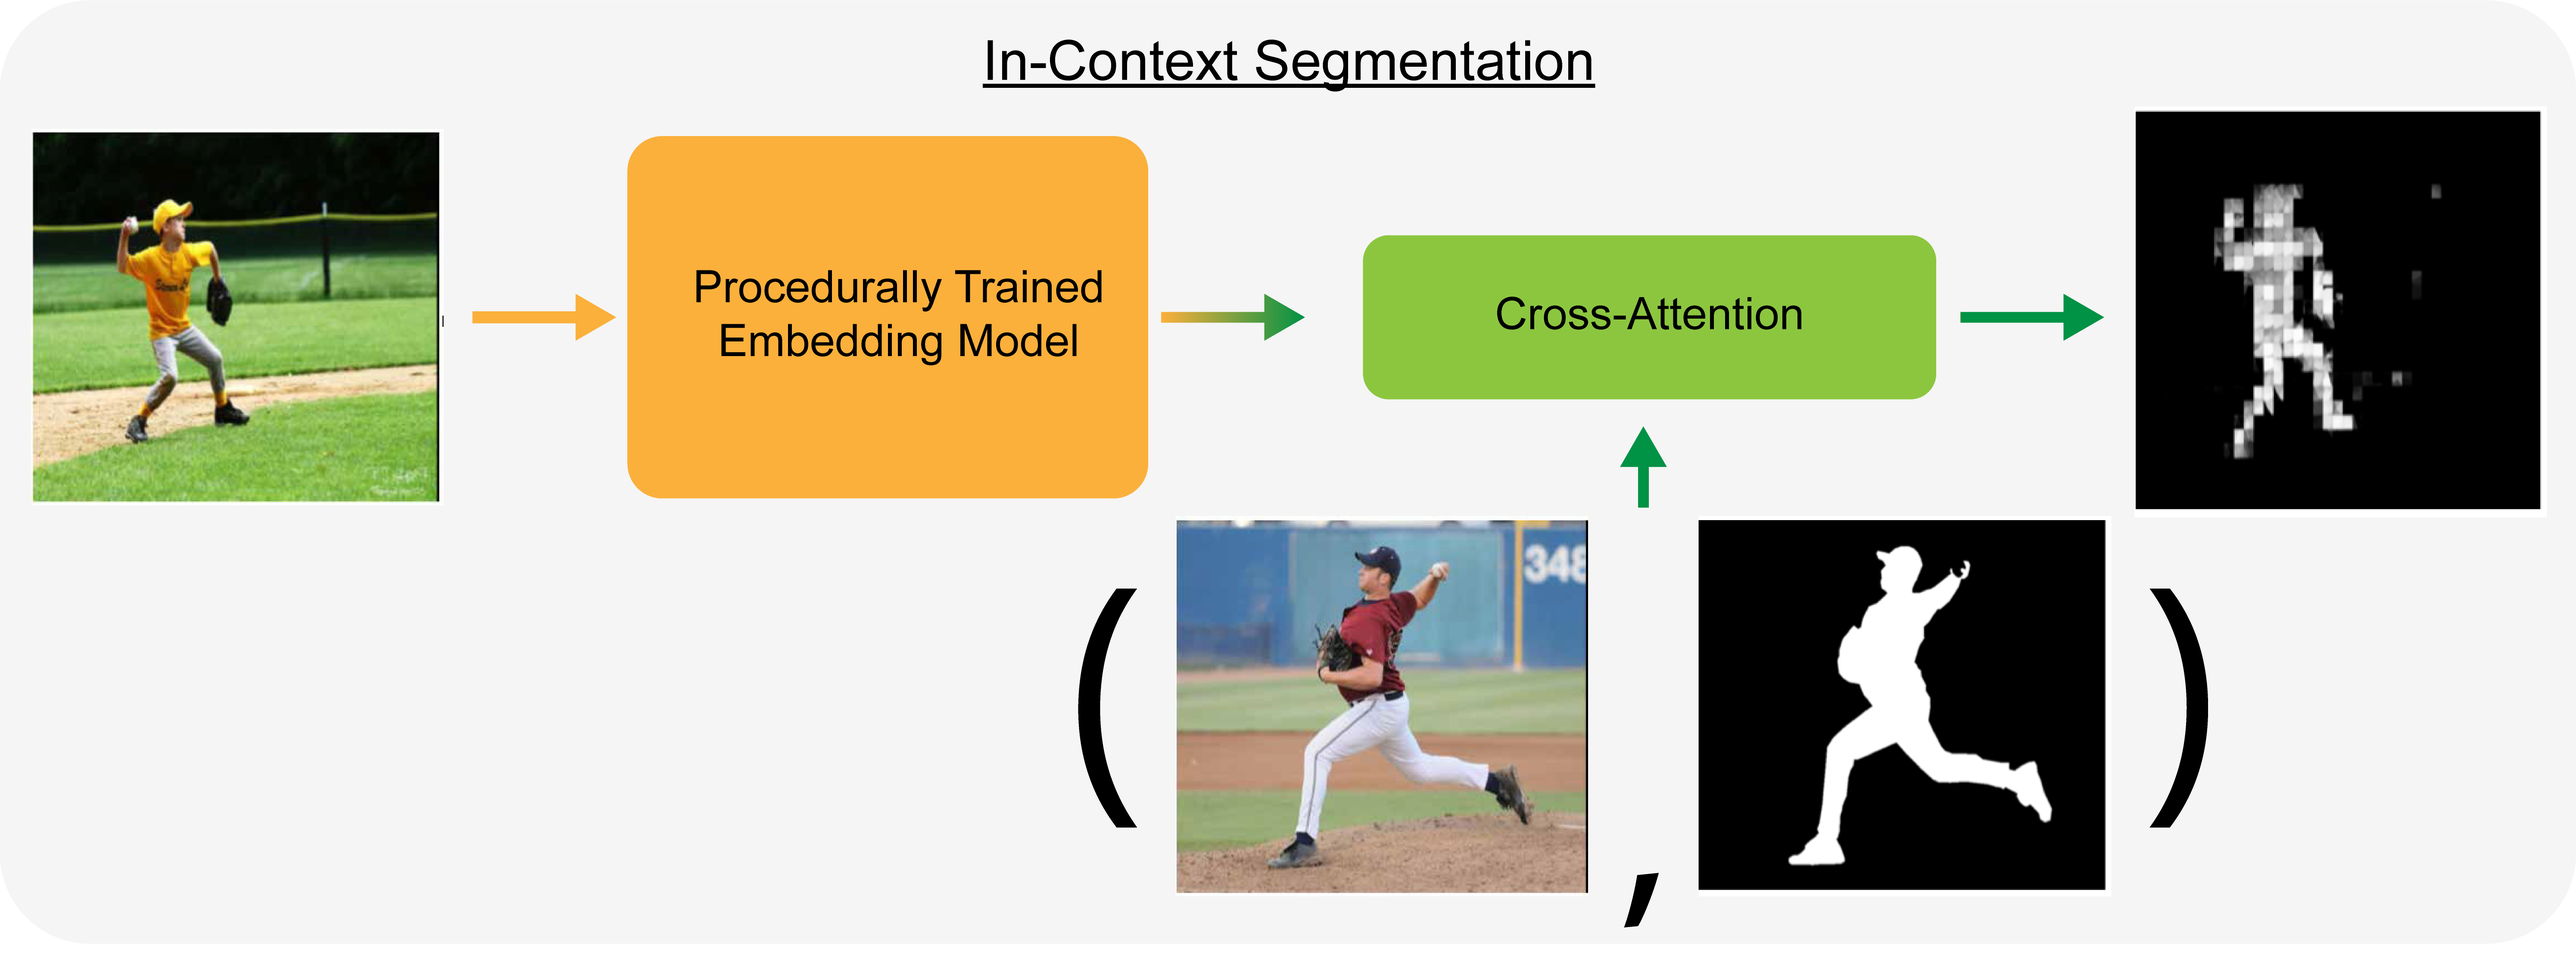
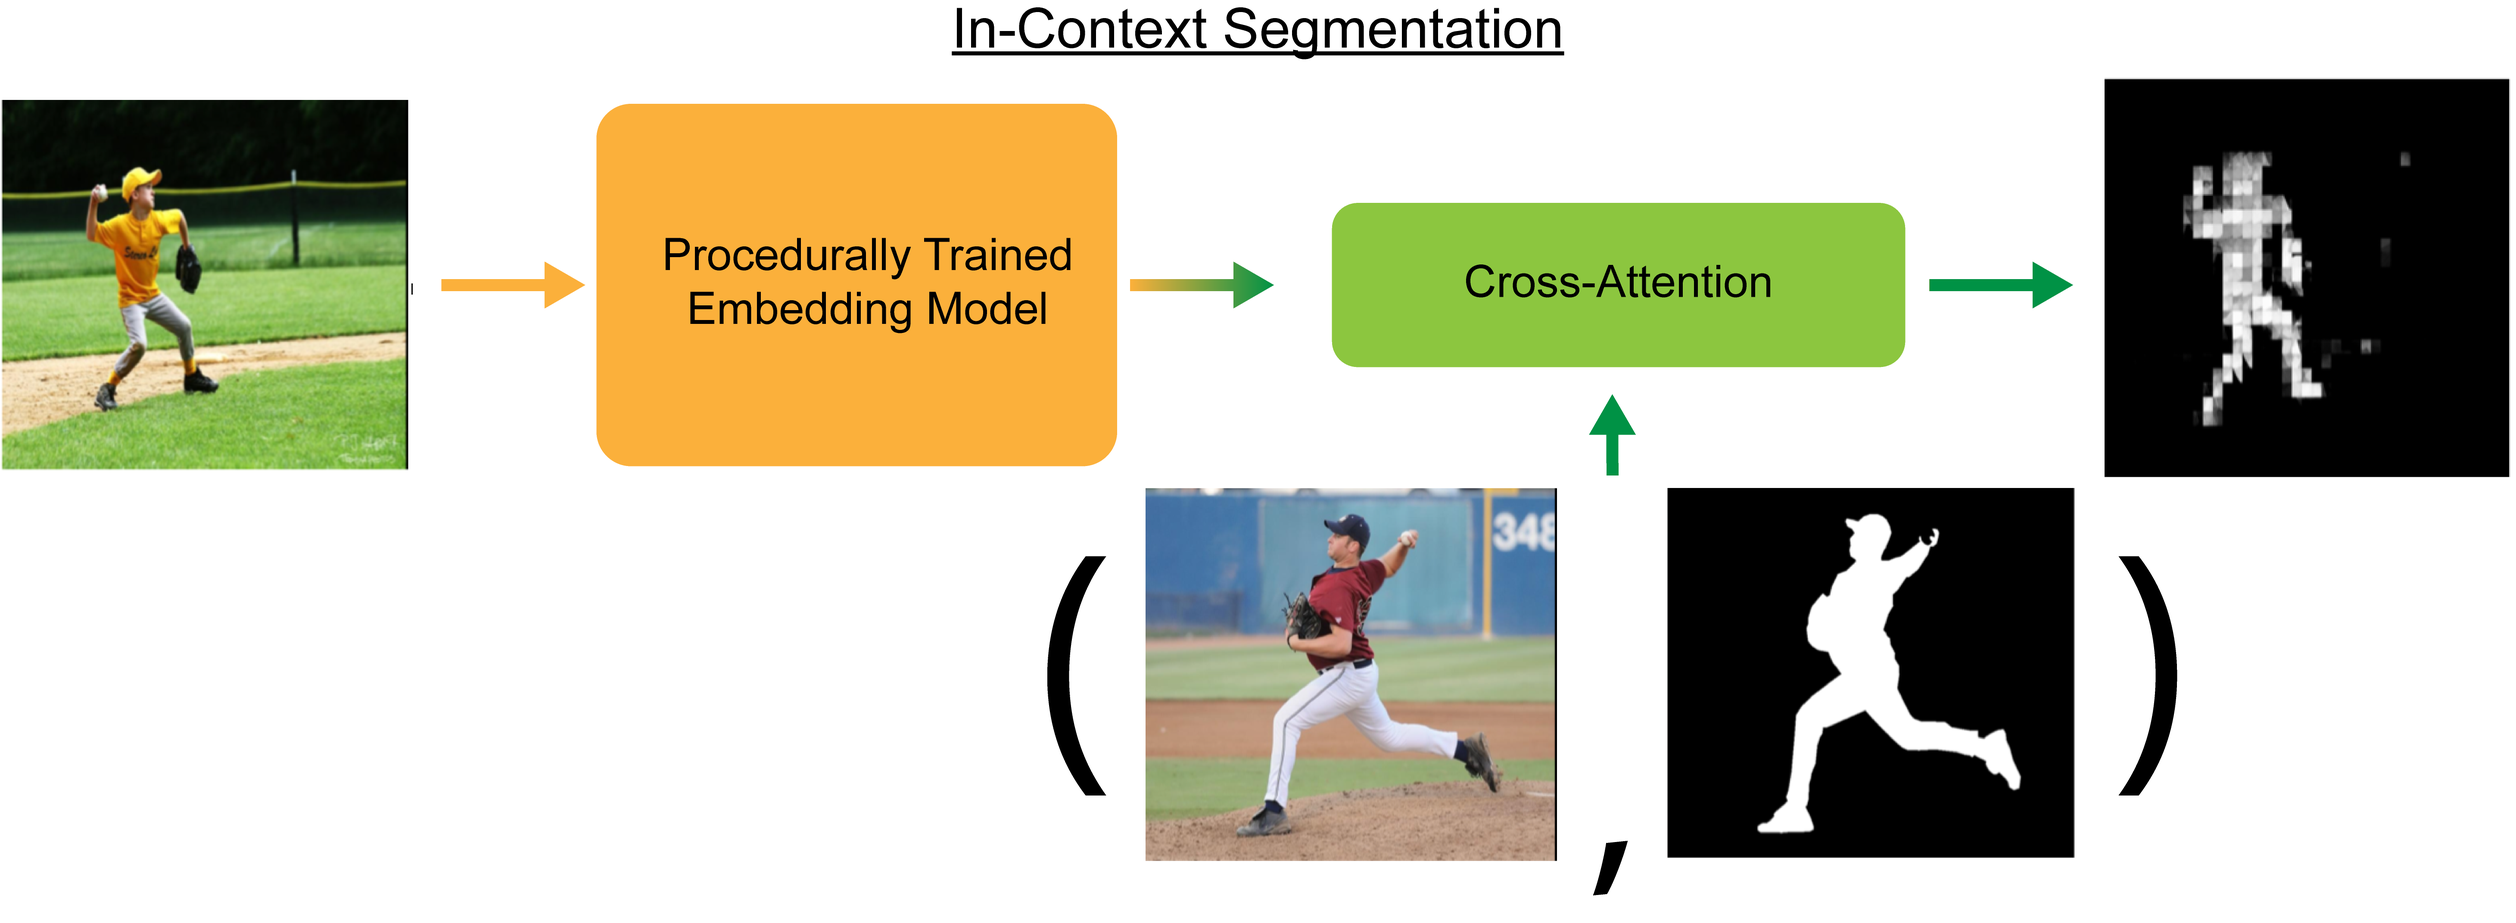
transparent diagram incontext

diff --git a/_pages/separating_knowledge/index.html b/_pages/separating_knowledge/index.html
@@ -613,7 +613,7 @@
     </div>
     <div class="box">
       <figure>
-        <img src="./static/figures_poster/segmentation_diagram_incontext_solid_gray_bkg.png" alt="In-context segmentation pipeline" />
+        <img src="./static/figures_poster/segmentation_diagram_incontext.png" alt="In-context segmentation pipeline" />
         <figcaption>In-context segmentation pipeline: given a single exemplar prompt, procedural models can segment arbitrary classes.</figcaption>
       </figure>
     </div>
